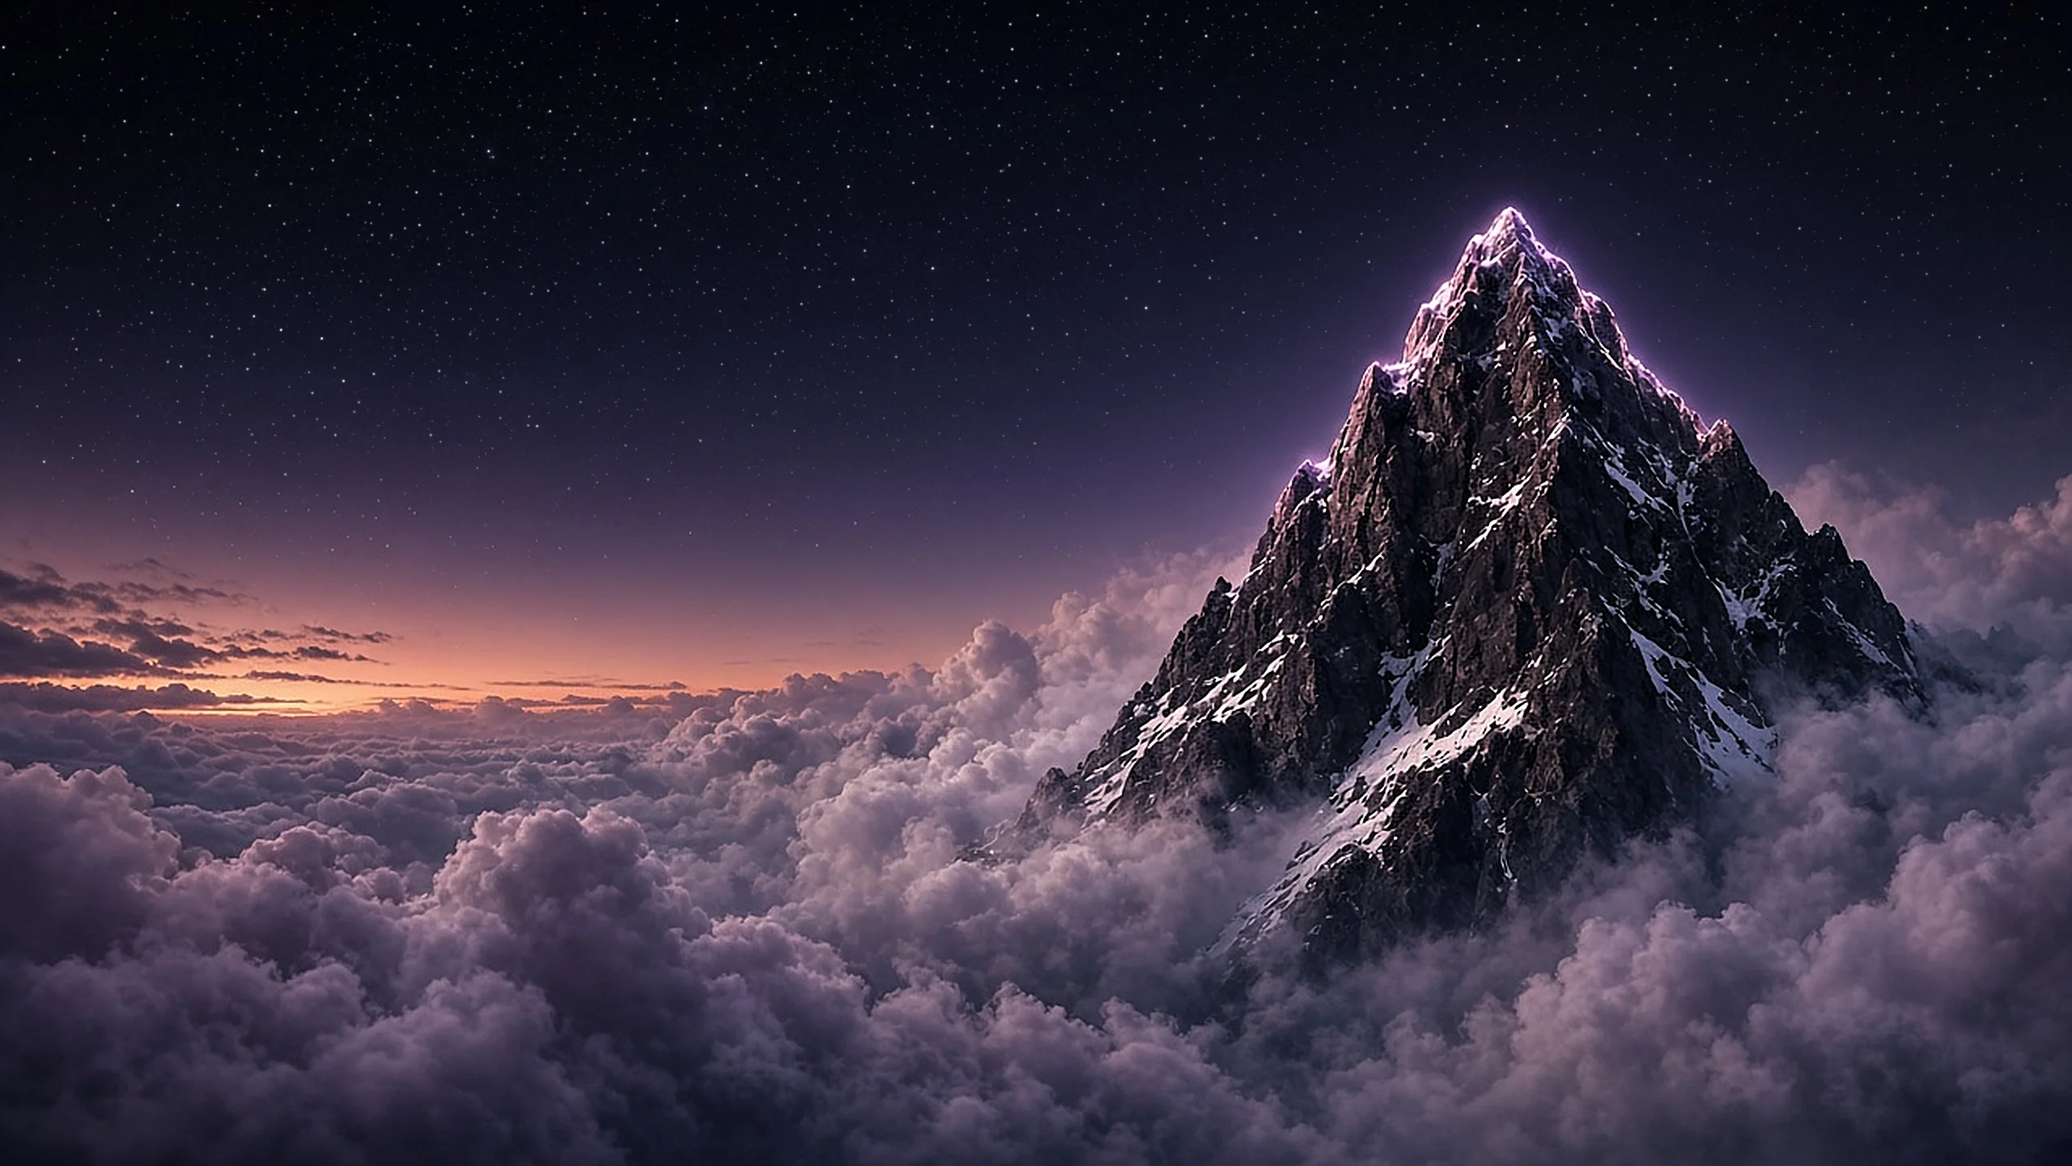
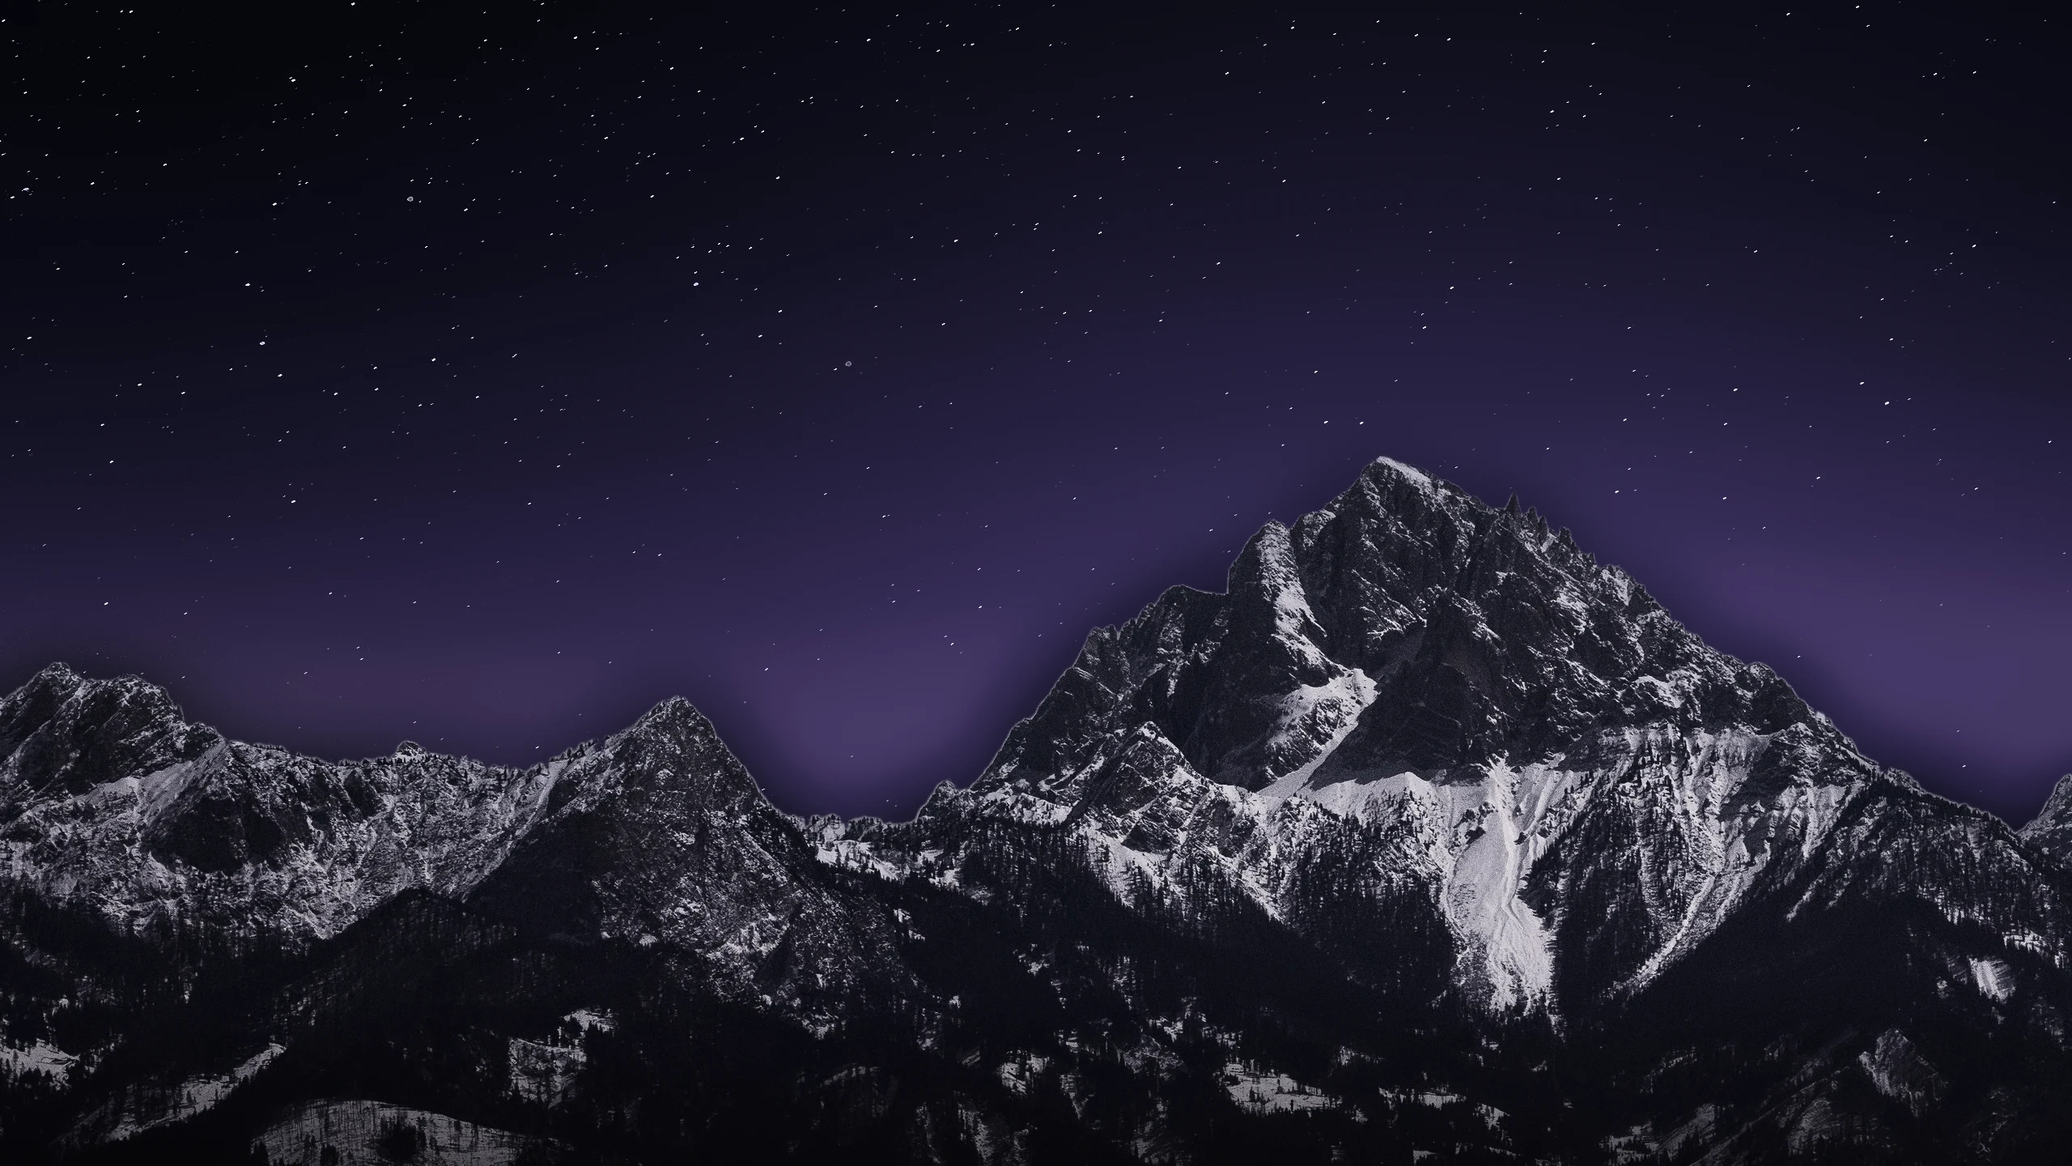
Replace the AI mountain with a real high-res night photograph.
The 1280px AI render still read soft after the 2x rebuild, since it had
no real detail to recover.

- New plates cropped from "Snowy mountains under a starry night sky" by
  Marek Piwnicki (Unsplash License, 5374x3587), no upscaling: desktop
  16:9 with the summit at 66% across, phone 9:16 (780/1170 wide).
- Regraded into the palette: sky repainted ink-to-violet from the
  photo's own airglow with its real stars kept, soft violet glow behind
  the summit, rock and snow mapped from ink through slate to lavender.
- Record ridge re-traced from the new skyline; waypoints now follow the
  climb to the real peak.
- Retune hero focus/zoom origin, page-header crops, alt text, OG scrim.
- Credit the photographer in the footer and README.

diff --git a/components/summit/ridge.ts b/components/summit/ridge.ts
@@ -1,6 +1,6 @@
-// Generated by runs/summit/tools/ridge.py from the wide plate's skyline. Do not edit by hand.
-export const RIDGE_VIEW = { width: 1000, height: 157.7 } as const;
-export const RIDGE_LINE = "M0.0 143.0 L15.6 142.2 L31.3 144.4 L97.0 145.3 L106.3 146.9 L118.8 146.9 L131.4 148.4 L137.6 147.7 L150.1 148.4 L181.4 147.7 L203.3 150.0 L228.3 148.4 L240.8 150.0 L262.7 150.8 L290.9 154.7 L309.6 154.6 L319.0 153.1 L362.8 153.8 L381.5 150.8 L406.6 150.8 L419.1 148.4 L431.6 149.2 L453.5 146.4 L469.1 146.1 L491.0 143.8 L544.2 131.3 L566.1 125.0 L600.5 111.9 L622.4 102.2 L641.1 90.6 L653.6 79.4 L666.1 70.8 L678.7 52.6 L694.3 34.3 L700.5 24.3 L716.2 9.6 L722.4 6.0 L728.7 4.7 L738.1 7.3 L744.3 12.5 L753.7 25.0 L763.1 32.8 L772.5 44.5 L781.9 53.4 L791.2 66.4 L800.6 77.3 L806.9 82.6 L831.9 99.0 L875.7 117.2 L910.1 126.0 L941.4 129.8 L957.0 133.6 L966.4 134.4 L975.8 133.6 L988.3 137.5 L1000.0 135.2";
-export const RIDGE_AREA = "M0.0 143.0 L15.6 142.2 L31.3 144.4 L97.0 145.3 L106.3 146.9 L118.8 146.9 L131.4 148.4 L137.6 147.7 L150.1 148.4 L181.4 147.7 L203.3 150.0 L228.3 148.4 L240.8 150.0 L262.7 150.8 L290.9 154.7 L309.6 154.6 L319.0 153.1 L362.8 153.8 L381.5 150.8 L406.6 150.8 L419.1 148.4 L431.6 149.2 L453.5 146.4 L469.1 146.1 L491.0 143.8 L544.2 131.3 L566.1 125.0 L600.5 111.9 L622.4 102.2 L641.1 90.6 L653.6 79.4 L666.1 70.8 L678.7 52.6 L694.3 34.3 L700.5 24.3 L716.2 9.6 L722.4 6.0 L728.7 4.7 L738.1 7.3 L744.3 12.5 L753.7 25.0 L763.1 32.8 L772.5 44.5 L781.9 53.4 L791.2 66.4 L800.6 77.3 L806.9 82.6 L831.9 99.0 L875.7 117.2 L910.1 126.0 L941.4 129.8 L957.0 133.6 L966.4 134.4 L975.8 133.6 L988.3 137.5 L1000.0 135.2 L1000 157.7 L0 157.7 Z";
-export const RIDGE_PEAK = { x: 728.7, y: 4.7 } as const;
-export const RIDGE_POINTS: ReadonlyArray<readonly [number, number]> = [[0.0, 143.0], [15.6, 142.2], [31.3, 144.4], [97.0, 145.3], [106.3, 146.9], [118.8, 146.9], [131.4, 148.4], [137.6, 147.7], [150.1, 148.4], [181.4, 147.7], [203.3, 150.0], [228.3, 148.4], [240.8, 150.0], [262.7, 150.8], [290.9, 154.7], [309.6, 154.6], [319.0, 153.1], [362.8, 153.8], [381.5, 150.8], [406.6, 150.8], [419.1, 148.4], [431.6, 149.2], [453.5, 146.4], [469.1, 146.1], [491.0, 143.8], [544.2, 131.3], [566.1, 125.0], [600.5, 111.9], [622.4, 102.2], [641.1, 90.6], [653.6, 79.4], [666.1, 70.8], [678.7, 52.6], [694.3, 34.3], [700.5, 24.3], [716.2, 9.6], [722.4, 6.0], [728.7, 4.7], [738.1, 7.3], [744.3, 12.5], [753.7, 25.0], [763.1, 32.8], [772.5, 44.5], [781.9, 53.4], [791.2, 66.4], [800.6, 77.3], [806.9, 82.6], [831.9, 99.0], [875.7, 117.2], [910.1, 126.0], [941.4, 129.8], [957.0, 133.6], [966.4, 134.4], [975.8, 133.6], [988.3, 137.5], [1000.0, 135.2]];
+// Generated by runs/summit/tools/photo_plates.py from the desktop plate's skyline. Do not edit by hand.
+export const RIDGE_VIEW = { width: 1000, height: 195.0 } as const;
+export const RIDGE_LINE = "M0.0 128.1 L2.3 129.2 L9.4 123.3 L11.7 123.1 L18.8 116.1 L23.4 114.1 L25.8 111.5 L30.5 111.5 L32.8 113.0 L35.2 118.1 L37.5 116.7 L39.9 121.1 L44.5 119.2 L46.9 120.3 L53.9 120.1 L65.7 118.1 L72.7 122.5 L77.4 123.0 L79.7 124.3 L84.4 132.7 L86.8 132.3 L89.1 141.2 L91.4 142.0 L96.1 140.4 L100.8 142.6 L103.2 142.6 L110.2 150.9 L112.5 149.0 L114.9 149.0 L121.9 151.4 L124.3 150.4 L136.0 151.7 L140.7 158.3 L143.0 156.1 L152.4 157.2 L159.4 159.8 L161.8 162.0 L164.1 158.9 L166.5 157.9 L173.5 159.8 L175.8 157.7 L180.5 158.0 L185.2 156.8 L187.6 158.0 L192.3 151.4 L197.0 149.2 L204.0 152.5 L206.3 156.0 L208.7 155.3 L218.1 156.5 L220.4 160.3 L222.7 156.8 L225.1 157.1 L227.4 158.8 L232.1 159.6 L234.5 162.8 L239.2 160.9 L241.5 161.9 L243.8 160.8 L246.2 165.0 L248.5 162.2 L253.2 163.9 L260.3 159.9 L262.6 161.2 L267.3 157.0 L269.6 156.4 L274.3 152.8 L276.7 153.9 L281.4 150.0 L286.0 148.3 L288.4 154.5 L290.7 154.5 L293.1 146.7 L297.8 146.2 L304.8 142.3 L318.9 130.4 L321.2 131.3 L325.9 127.6 L328.3 131.7 L330.6 128.5 L342.3 139.5 L347.0 147.9 L358.7 161.2 L370.5 178.2 L377.5 184.0 L379.8 185.3 L386.9 185.8 L389.2 190.4 L391.6 185.8 L393.9 184.9 L396.2 185.9 L400.9 184.5 L403.3 185.0 L408.0 191.3 L410.3 187.5 L417.4 185.4 L424.4 186.8 L426.7 189.2 L429.1 188.4 L436.1 189.0 L440.8 187.5 L452.5 170.4 L454.9 168.8 L457.2 168.2 L461.9 173.0 L464.2 173.0 L466.6 172.4 L471.3 168.6 L483.0 153.0 L487.7 144.1 L494.7 138.3 L497.1 138.1 L499.4 136.1 L513.5 116.3 L518.2 112.3 L527.5 95.1 L532.2 95.5 L536.9 93.4 L539.3 96.6 L546.3 90.4 L548.7 90.4 L553.3 84.3 L558.0 82.7 L562.7 76.9 L567.4 74.5 L572.1 74.5 L579.1 76.8 L590.9 78.5 L593.2 67.0 L595.5 62.8 L602.6 52.6 L612.0 43.3 L614.3 42.7 L619.0 44.2 L621.3 46.9 L623.7 46.1 L628.4 40.6 L637.7 38.0 L644.8 31.8 L649.5 29.3 L656.5 22.4 L658.9 17.3 L665.9 12.2 L668.2 12.0 L677.6 15.1 L684.6 18.8 L687.0 18.2 L696.4 23.9 L698.7 23.9 L708.1 30.1 L712.8 31.8 L719.8 37.2 L726.8 36.5 L729.2 31.5 L731.5 30.2 L733.9 38.3 L736.2 39.5 L738.6 36.9 L740.9 36.9 L743.3 41.7 L745.6 41.8 L747.9 47.1 L752.6 49.0 L755.0 46.3 L757.3 47.5 L762.0 56.6 L764.4 58.9 L769.1 59.2 L771.4 65.2 L773.7 66.1 L776.1 64.4 L778.4 64.6 L783.1 66.6 L790.2 73.1 L792.5 74.0 L794.8 78.0 L801.9 84.6 L804.2 85.5 L806.6 91.3 L811.3 92.4 L813.6 96.4 L820.6 99.4 L823.0 104.0 L825.3 103.9 L832.4 108.0 L837.0 108.8 L841.7 112.3 L844.1 112.9 L848.8 111.5 L853.5 113.4 L858.1 118.9 L860.5 119.0 L867.5 127.7 L876.9 136.0 L879.2 135.6 L881.6 138.5 L883.9 139.2 L886.3 143.1 L893.3 148.1 L898.0 155.7 L905.0 158.9 L907.4 163.6 L909.7 164.7 L912.1 162.3 L919.1 164.1 L930.8 174.1 L944.9 179.4 L949.6 179.9 L956.6 183.4 L959.0 183.4 L966.0 187.3 L973.0 193.3 L980.1 188.1 L982.4 187.6 L994.1 168.9 L996.5 166.3 L1000.0 165.6";
+export const RIDGE_AREA = "M0.0 128.1 L2.3 129.2 L9.4 123.3 L11.7 123.1 L18.8 116.1 L23.4 114.1 L25.8 111.5 L30.5 111.5 L32.8 113.0 L35.2 118.1 L37.5 116.7 L39.9 121.1 L44.5 119.2 L46.9 120.3 L53.9 120.1 L65.7 118.1 L72.7 122.5 L77.4 123.0 L79.7 124.3 L84.4 132.7 L86.8 132.3 L89.1 141.2 L91.4 142.0 L96.1 140.4 L100.8 142.6 L103.2 142.6 L110.2 150.9 L112.5 149.0 L114.9 149.0 L121.9 151.4 L124.3 150.4 L136.0 151.7 L140.7 158.3 L143.0 156.1 L152.4 157.2 L159.4 159.8 L161.8 162.0 L164.1 158.9 L166.5 157.9 L173.5 159.8 L175.8 157.7 L180.5 158.0 L185.2 156.8 L187.6 158.0 L192.3 151.4 L197.0 149.2 L204.0 152.5 L206.3 156.0 L208.7 155.3 L218.1 156.5 L220.4 160.3 L222.7 156.8 L225.1 157.1 L227.4 158.8 L232.1 159.6 L234.5 162.8 L239.2 160.9 L241.5 161.9 L243.8 160.8 L246.2 165.0 L248.5 162.2 L253.2 163.9 L260.3 159.9 L262.6 161.2 L267.3 157.0 L269.6 156.4 L274.3 152.8 L276.7 153.9 L281.4 150.0 L286.0 148.3 L288.4 154.5 L290.7 154.5 L293.1 146.7 L297.8 146.2 L304.8 142.3 L318.9 130.4 L321.2 131.3 L325.9 127.6 L328.3 131.7 L330.6 128.5 L342.3 139.5 L347.0 147.9 L358.7 161.2 L370.5 178.2 L377.5 184.0 L379.8 185.3 L386.9 185.8 L389.2 190.4 L391.6 185.8 L393.9 184.9 L396.2 185.9 L400.9 184.5 L403.3 185.0 L408.0 191.3 L410.3 187.5 L417.4 185.4 L424.4 186.8 L426.7 189.2 L429.1 188.4 L436.1 189.0 L440.8 187.5 L452.5 170.4 L454.9 168.8 L457.2 168.2 L461.9 173.0 L464.2 173.0 L466.6 172.4 L471.3 168.6 L483.0 153.0 L487.7 144.1 L494.7 138.3 L497.1 138.1 L499.4 136.1 L513.5 116.3 L518.2 112.3 L527.5 95.1 L532.2 95.5 L536.9 93.4 L539.3 96.6 L546.3 90.4 L548.7 90.4 L553.3 84.3 L558.0 82.7 L562.7 76.9 L567.4 74.5 L572.1 74.5 L579.1 76.8 L590.9 78.5 L593.2 67.0 L595.5 62.8 L602.6 52.6 L612.0 43.3 L614.3 42.7 L619.0 44.2 L621.3 46.9 L623.7 46.1 L628.4 40.6 L637.7 38.0 L644.8 31.8 L649.5 29.3 L656.5 22.4 L658.9 17.3 L665.9 12.2 L668.2 12.0 L677.6 15.1 L684.6 18.8 L687.0 18.2 L696.4 23.9 L698.7 23.9 L708.1 30.1 L712.8 31.8 L719.8 37.2 L726.8 36.5 L729.2 31.5 L731.5 30.2 L733.9 38.3 L736.2 39.5 L738.6 36.9 L740.9 36.9 L743.3 41.7 L745.6 41.8 L747.9 47.1 L752.6 49.0 L755.0 46.3 L757.3 47.5 L762.0 56.6 L764.4 58.9 L769.1 59.2 L771.4 65.2 L773.7 66.1 L776.1 64.4 L778.4 64.6 L783.1 66.6 L790.2 73.1 L792.5 74.0 L794.8 78.0 L801.9 84.6 L804.2 85.5 L806.6 91.3 L811.3 92.4 L813.6 96.4 L820.6 99.4 L823.0 104.0 L825.3 103.9 L832.4 108.0 L837.0 108.8 L841.7 112.3 L844.1 112.9 L848.8 111.5 L853.5 113.4 L858.1 118.9 L860.5 119.0 L867.5 127.7 L876.9 136.0 L879.2 135.6 L881.6 138.5 L883.9 139.2 L886.3 143.1 L893.3 148.1 L898.0 155.7 L905.0 158.9 L907.4 163.6 L909.7 164.7 L912.1 162.3 L919.1 164.1 L930.8 174.1 L944.9 179.4 L949.6 179.9 L956.6 183.4 L959.0 183.4 L966.0 187.3 L973.0 193.3 L980.1 188.1 L982.4 187.6 L994.1 168.9 L996.5 166.3 L1000.0 165.6 L1000 195.0 L0 195.0 Z";
+export const RIDGE_PEAK = { x: 668.2, y: 12.0 } as const;
+export const RIDGE_POINTS: ReadonlyArray<readonly [number, number]> = [[0.0, 128.1], [2.3, 129.2], [9.4, 123.3], [11.7, 123.1], [18.8, 116.1], [23.4, 114.1], [25.8, 111.5], [30.5, 111.5], [32.8, 113.0], [35.2, 118.1], [37.5, 116.7], [39.9, 121.1], [44.5, 119.2], [46.9, 120.3], [53.9, 120.1], [65.7, 118.1], [72.7, 122.5], [77.4, 123.0], [79.7, 124.3], [84.4, 132.7], [86.8, 132.3], [89.1, 141.2], [91.4, 142.0], [96.1, 140.4], [100.8, 142.6], [103.2, 142.6], [110.2, 150.9], [112.5, 149.0], [114.9, 149.0], [121.9, 151.4], [124.3, 150.4], [136.0, 151.7], [140.7, 158.3], [143.0, 156.1], [152.4, 157.2], [159.4, 159.8], [161.8, 162.0], [164.1, 158.9], [166.5, 157.9], [173.5, 159.8], [175.8, 157.7], [180.5, 158.0], [185.2, 156.8], [187.6, 158.0], [192.3, 151.4], [197.0, 149.2], [204.0, 152.5], [206.3, 156.0], [208.7, 155.3], [218.1, 156.5], [220.4, 160.3], [222.7, 156.8], [225.1, 157.1], [227.4, 158.8], [232.1, 159.6], [234.5, 162.8], [239.2, 160.9], [241.5, 161.9], [243.8, 160.8], [246.2, 165.0], [248.5, 162.2], [253.2, 163.9], [260.3, 159.9], [262.6, 161.2], [267.3, 157.0], [269.6, 156.4], [274.3, 152.8], [276.7, 153.9], [281.4, 150.0], [286.0, 148.3], [288.4, 154.5], [290.7, 154.5], [293.1, 146.7], [297.8, 146.2], [304.8, 142.3], [318.9, 130.4], [321.2, 131.3], [325.9, 127.6], [328.3, 131.7], [330.6, 128.5], [342.3, 139.5], [347.0, 147.9], [358.7, 161.2], [370.5, 178.2], [377.5, 184.0], [379.8, 185.3], [386.9, 185.8], [389.2, 190.4], [391.6, 185.8], [393.9, 184.9], [396.2, 185.9], [400.9, 184.5], [403.3, 185.0], [408.0, 191.3], [410.3, 187.5], [417.4, 185.4], [424.4, 186.8], [426.7, 189.2], [429.1, 188.4], [436.1, 189.0], [440.8, 187.5], [452.5, 170.4], [454.9, 168.8], [457.2, 168.2], [461.9, 173.0], [464.2, 173.0], [466.6, 172.4], [471.3, 168.6], [483.0, 153.0], [487.7, 144.1], [494.7, 138.3], [497.1, 138.1], [499.4, 136.1], [513.5, 116.3], [518.2, 112.3], [527.5, 95.1], [532.2, 95.5], [536.9, 93.4], [539.3, 96.6], [546.3, 90.4], [548.7, 90.4], [553.3, 84.3], [558.0, 82.7], [562.7, 76.9], [567.4, 74.5], [572.1, 74.5], [579.1, 76.8], [590.9, 78.5], [593.2, 67.0], [595.5, 62.8], [602.6, 52.6], [612.0, 43.3], [614.3, 42.7], [619.0, 44.2], [621.3, 46.9], [623.7, 46.1], [628.4, 40.6], [637.7, 38.0], [644.8, 31.8], [649.5, 29.3], [656.5, 22.4], [658.9, 17.3], [665.9, 12.2], [668.2, 12.0], [677.6, 15.1], [684.6, 18.8], [687.0, 18.2], [696.4, 23.9], [698.7, 23.9], [708.1, 30.1], [712.8, 31.8], [719.8, 37.2], [726.8, 36.5], [729.2, 31.5], [731.5, 30.2], [733.9, 38.3], [736.2, 39.5], [738.6, 36.9], [740.9, 36.9], [743.3, 41.7], [745.6, 41.8], [747.9, 47.1], [752.6, 49.0], [755.0, 46.3], [757.3, 47.5], [762.0, 56.6], [764.4, 58.9], [769.1, 59.2], [771.4, 65.2], [773.7, 66.1], [776.1, 64.4], [778.4, 64.6], [783.1, 66.6], [790.2, 73.1], [792.5, 74.0], [794.8, 78.0], [801.9, 84.6], [804.2, 85.5], [806.6, 91.3], [811.3, 92.4], [813.6, 96.4], [820.6, 99.4], [823.0, 104.0], [825.3, 103.9], [832.4, 108.0], [837.0, 108.8], [841.7, 112.3], [844.1, 112.9], [848.8, 111.5], [853.5, 113.4], [858.1, 118.9], [860.5, 119.0], [867.5, 127.7], [876.9, 136.0], [879.2, 135.6], [881.6, 138.5], [883.9, 139.2], [886.3, 143.1], [893.3, 148.1], [898.0, 155.7], [905.0, 158.9], [907.4, 163.6], [909.7, 164.7], [912.1, 162.3], [919.1, 164.1], [930.8, 174.1], [944.9, 179.4], [949.6, 179.9], [956.6, 183.4], [959.0, 183.4], [966.0, 187.3], [973.0, 193.3], [980.1, 188.1], [982.4, 187.6], [994.1, 168.9], [996.5, 166.3], [1000.0, 165.6]];

diff --git a/components/summit/narrative.tsx b/components/summit/narrative.tsx
@@ -1,7 +1,7 @@
 import Link from "next/link";
 import { brand, kntqSheet, ledgerColumns } from "@/lib/brand";
 import { Arrow } from "@/components/arrow";
-import { RIDGE_AREA, RIDGE_LINE, RIDGE_POINTS, RIDGE_VIEW } from "@/components/summit/ridge";
+import { RIDGE_AREA, RIDGE_LINE, RIDGE_PEAK, RIDGE_POINTS, RIDGE_VIEW } from "@/components/summit/ridge";
 
 export function Hype() {
   return (
@@ -60,13 +60,14 @@ export function Hype() {
   );
 }
 
-/** Waypoints placed along the traced ridge, one per column of the public record. */
+/** Waypoints placed up the traced ridge to its summit, one per column of the public record. */
+const PEAK_AT = RIDGE_PEAK.x / RIDGE_VIEW.width;
 const waypoints = [
-  { at: 0.5, label: "Fees collected" },
-  { at: 0.58, label: "SUMMIT repurchased" },
-  { at: 0.64, label: "KNTQ bought" },
-  { at: 0.69, label: "KNTQ distributed" },
-  { at: 0.729, label: "Transaction" },
+  { at: PEAK_AT - 0.155, label: "Fees collected" },
+  { at: PEAK_AT - 0.115, label: "SUMMIT repurchased" },
+  { at: PEAK_AT - 0.075, label: "KNTQ bought" },
+  { at: PEAK_AT - 0.037, label: "KNTQ distributed" },
+  { at: PEAK_AT, label: "Transaction" },
 ] as const;
 
 function ridgeY(x: number) {
@@ -214,7 +215,7 @@ export function Community() {
           <source
             media="(max-width: 767px)"
             type="image/webp"
-            srcSet="/summit/peak-tall-900.webp 900w, /summit/peak-tall-1440.webp 1440w"
+            srcSet="/summit/peak-tall-780.webp 780w, /summit/peak-tall-1170.webp 1170w"
             sizes="100vw"
           />
           <source

diff --git a/components/summit/living-summit.tsx b/components/summit/living-summit.tsx
@@ -29,7 +29,7 @@ export function LivingSummit() {
           <source
             media="(max-width: 767px)"
             type="image/webp"
-            srcSet="/summit/peak-tall-900.webp 900w, /summit/peak-tall-1440.webp 1440w"
+            srcSet="/summit/peak-tall-780.webp 780w, /summit/peak-tall-1170.webp 1170w"
             sizes="(max-aspect-ratio: 9/16) 56.25vh, 100vw"
           />
           <source
@@ -40,7 +40,7 @@ export function LivingSummit() {
           <img
             ref={imageRef}
             src="/summit/peak-wide-1600.jpg"
-            alt="A lone mountain rising out of a sea of night clouds, its summit lit violet."
+            alt="A jagged, snow-covered summit under a star-filled violet night sky."
             width={2560}
             height={1440}
             fetchPriority="high"

diff --git a/app/globals.css b/app/globals.css
@@ -555,9 +555,9 @@ button,
   width: 100%;
   height: 100%;
   object-fit: cover;
-  object-position: 62% 44%;
+  object-position: 60% 50%;
   transform: scale(1.015);
-  transform-origin: 62% 44%;
+  transform-origin: 60% 50%;
 }
 
 @media (max-width: 767px) {
@@ -2276,6 +2276,19 @@ main:has(.altimeter) + .site-footer {
   letter-spacing: 0.12em;
   text-transform: uppercase;
   color: var(--haze);
+}
+
+.footer-base a {
+  text-decoration: underline;
+  text-underline-offset: 0.2em;
+  text-decoration-color: var(--line-strong);
+  transition: color var(--dur-fast) var(--ease-out);
+}
+
+@media (hover: hover) and (pointer: fine) {
+  .footer-base a:hover {
+    color: var(--peach);
+  }
 }
 
 @media (prefers-reduced-motion: reduce) {

diff --git a/components/summit/summit-scene.ts b/components/summit/summit-scene.ts
@@ -10,8 +10,8 @@ type MountOptions = {
  * Zoom origin and cover focus for each plate, in texture UV (y up).
  * focus mirrors the CSS object-position on .plate img: x% and (1 - y)%.
  */
-const WIDE = { origin: [0.7, 0.66], focus: [0.62, 0.56] } as const;
-const TALL = { origin: [0.5, 0.76], focus: [0.5, 0.6] } as const;
+const WIDE = { origin: [0.66, 0.5], focus: [0.6, 0.5] } as const;
+const TALL = { origin: [0.5, 0.6], focus: [0.5, 0.6] } as const;
 
 const VERT = `
 attribute vec2 aPos;

diff --git a/app/layout.tsx b/app/layout.tsx
@@ -103,7 +103,7 @@ export default function RootLayout({ children }: LayoutProps<"/">) {
           rel="preload"
           as="image"
           type="image/webp"
-          imageSrcSet="/summit/peak-tall-900.webp 900w, /summit/peak-tall-1440.webp 1440w"
+          imageSrcSet="/summit/peak-tall-780.webp 780w, /summit/peak-tall-1170.webp 1170w"
           imageSizes="(max-aspect-ratio: 9/16) 56.25vh, 100vw"
           media="(max-width: 767px)"
           fetchPriority="high"

diff --git a/app/opengraph-image.tsx b/app/opengraph-image.tsx
@@ -30,7 +30,7 @@ export default async function OpenGraphImage() {
             inset: 0,
             display: "flex",
             background:
-              "linear-gradient(90deg, rgba(11,12,19,0.88) 0%, rgba(11,12,19,0.55) 38%, rgba(11,12,19,0) 62%)",
+              "linear-gradient(0deg, rgba(11,12,19,0.9) 0%, rgba(11,12,19,0) 50%), linear-gradient(90deg, rgba(11,12,19,0.88) 0%, rgba(11,12,19,0.55) 38%, rgba(11,12,19,0) 62%)",
           }}
         />
         <div

diff --git a/components/footer.tsx b/components/footer.tsx
@@ -53,6 +53,12 @@ export function Footer() {
       <div className="footer-base">
         <p>© 2026 Summit</p>
         <p>Contract pending · Record empty until activity can be checked</p>
+        <p>
+          Photo:{" "}
+          <a href="https://unsplash.com/photos/SumjjLhysZM" target="_blank" rel="noreferrer">
+            Marek Piwnicki / Unsplash
+          </a>
+        </p>
       </div>
     </footer>
   );

diff --git a/app/ascent/page.tsx b/app/ascent/page.tsx
@@ -21,7 +21,7 @@ export default function AscentPage() {
         }
         title="Every trade contributes to the journey."
         lead="Trading activity is meant to generate fees for SUMMIT. Those fees have two intended uses."
-        focus="66% 34%"
+        focus="58% 50%"
       />
       <div className="page-body">
         <div className="prose page-prose">

diff --git a/app/record/page.tsx b/app/record/page.tsx
@@ -22,7 +22,7 @@ export default function RecordPage() {
         }
         title="One transparent record."
         lead="Every buyback. Every KNTQ purchase. Every distribution. Listed here once each one can be opened and checked."
-        focus="74% 22%"
+        focus="70% 40%"
       />
       <div className="page-wide">
         <dl className="record-board">

diff --git a/app/about/page.tsx b/app/about/page.tsx
@@ -20,7 +20,7 @@ export default function AboutPage() {
           </>
         }
         title="An independent project in the Ascend ecosystem."
-        focus="72% 26%"
+        focus="64% 44%"
       />
       <div className="page-body">
         <div className="prose page-prose">

diff --git a/components/page-header.tsx b/components/page-header.tsx
@@ -8,7 +8,7 @@ export function PageHeader({
   eyebrow,
   title,
   lead,
-  focus = "70% 30%",
+  focus = "64% 44%",
 }: {
   eyebrow: ReactNode;
   title: ReactNode;
